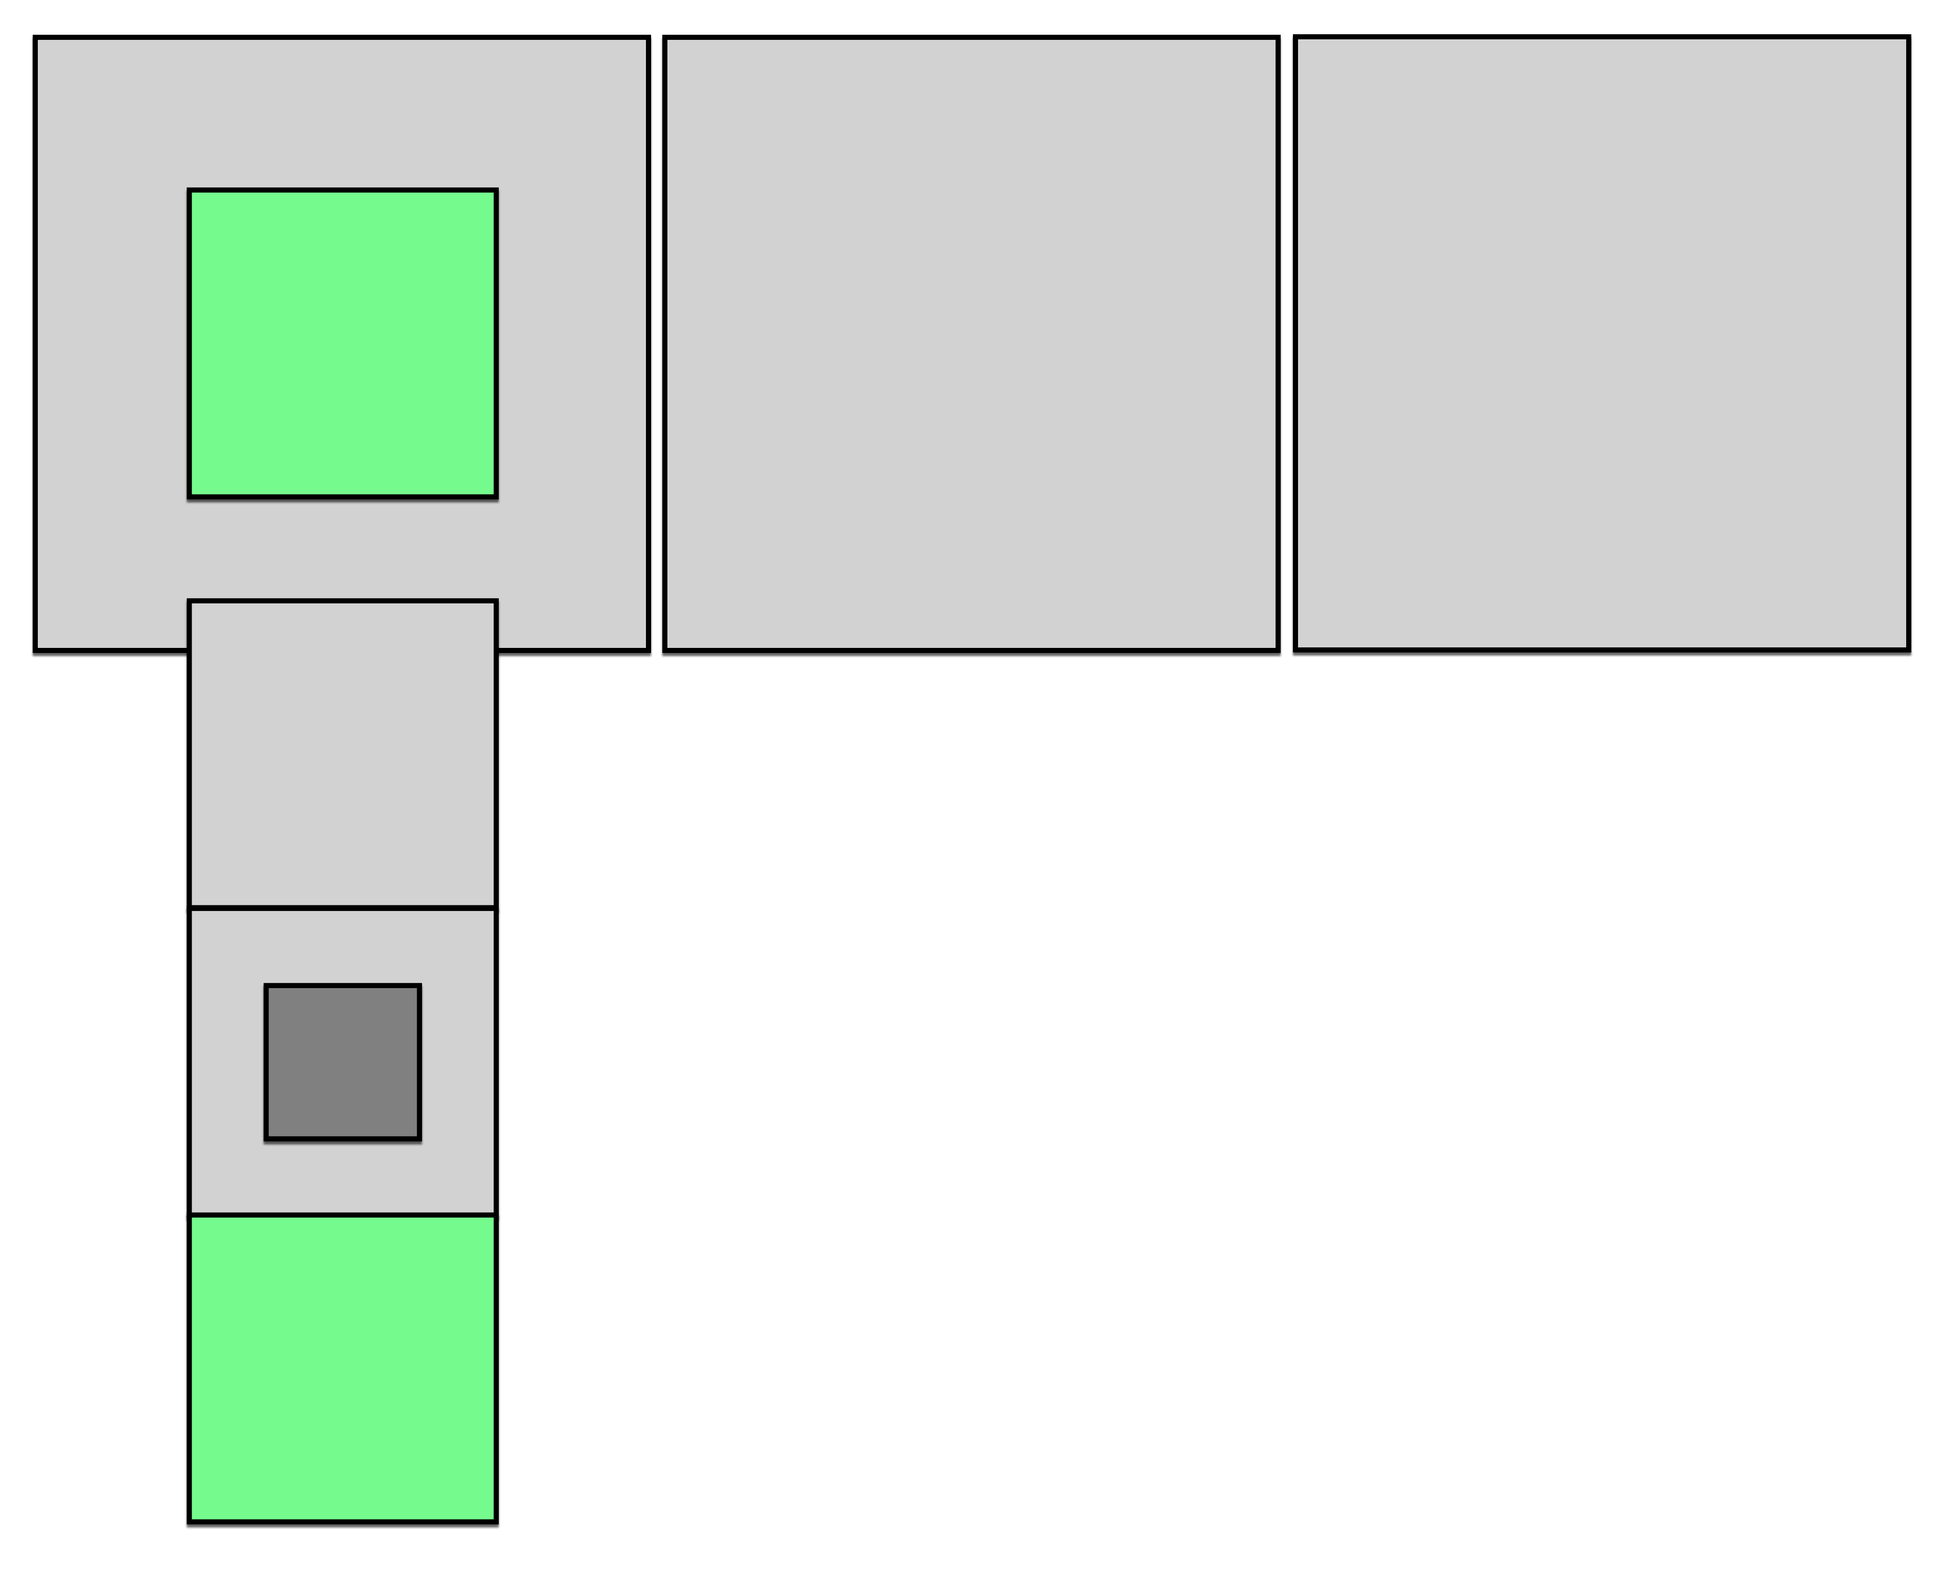
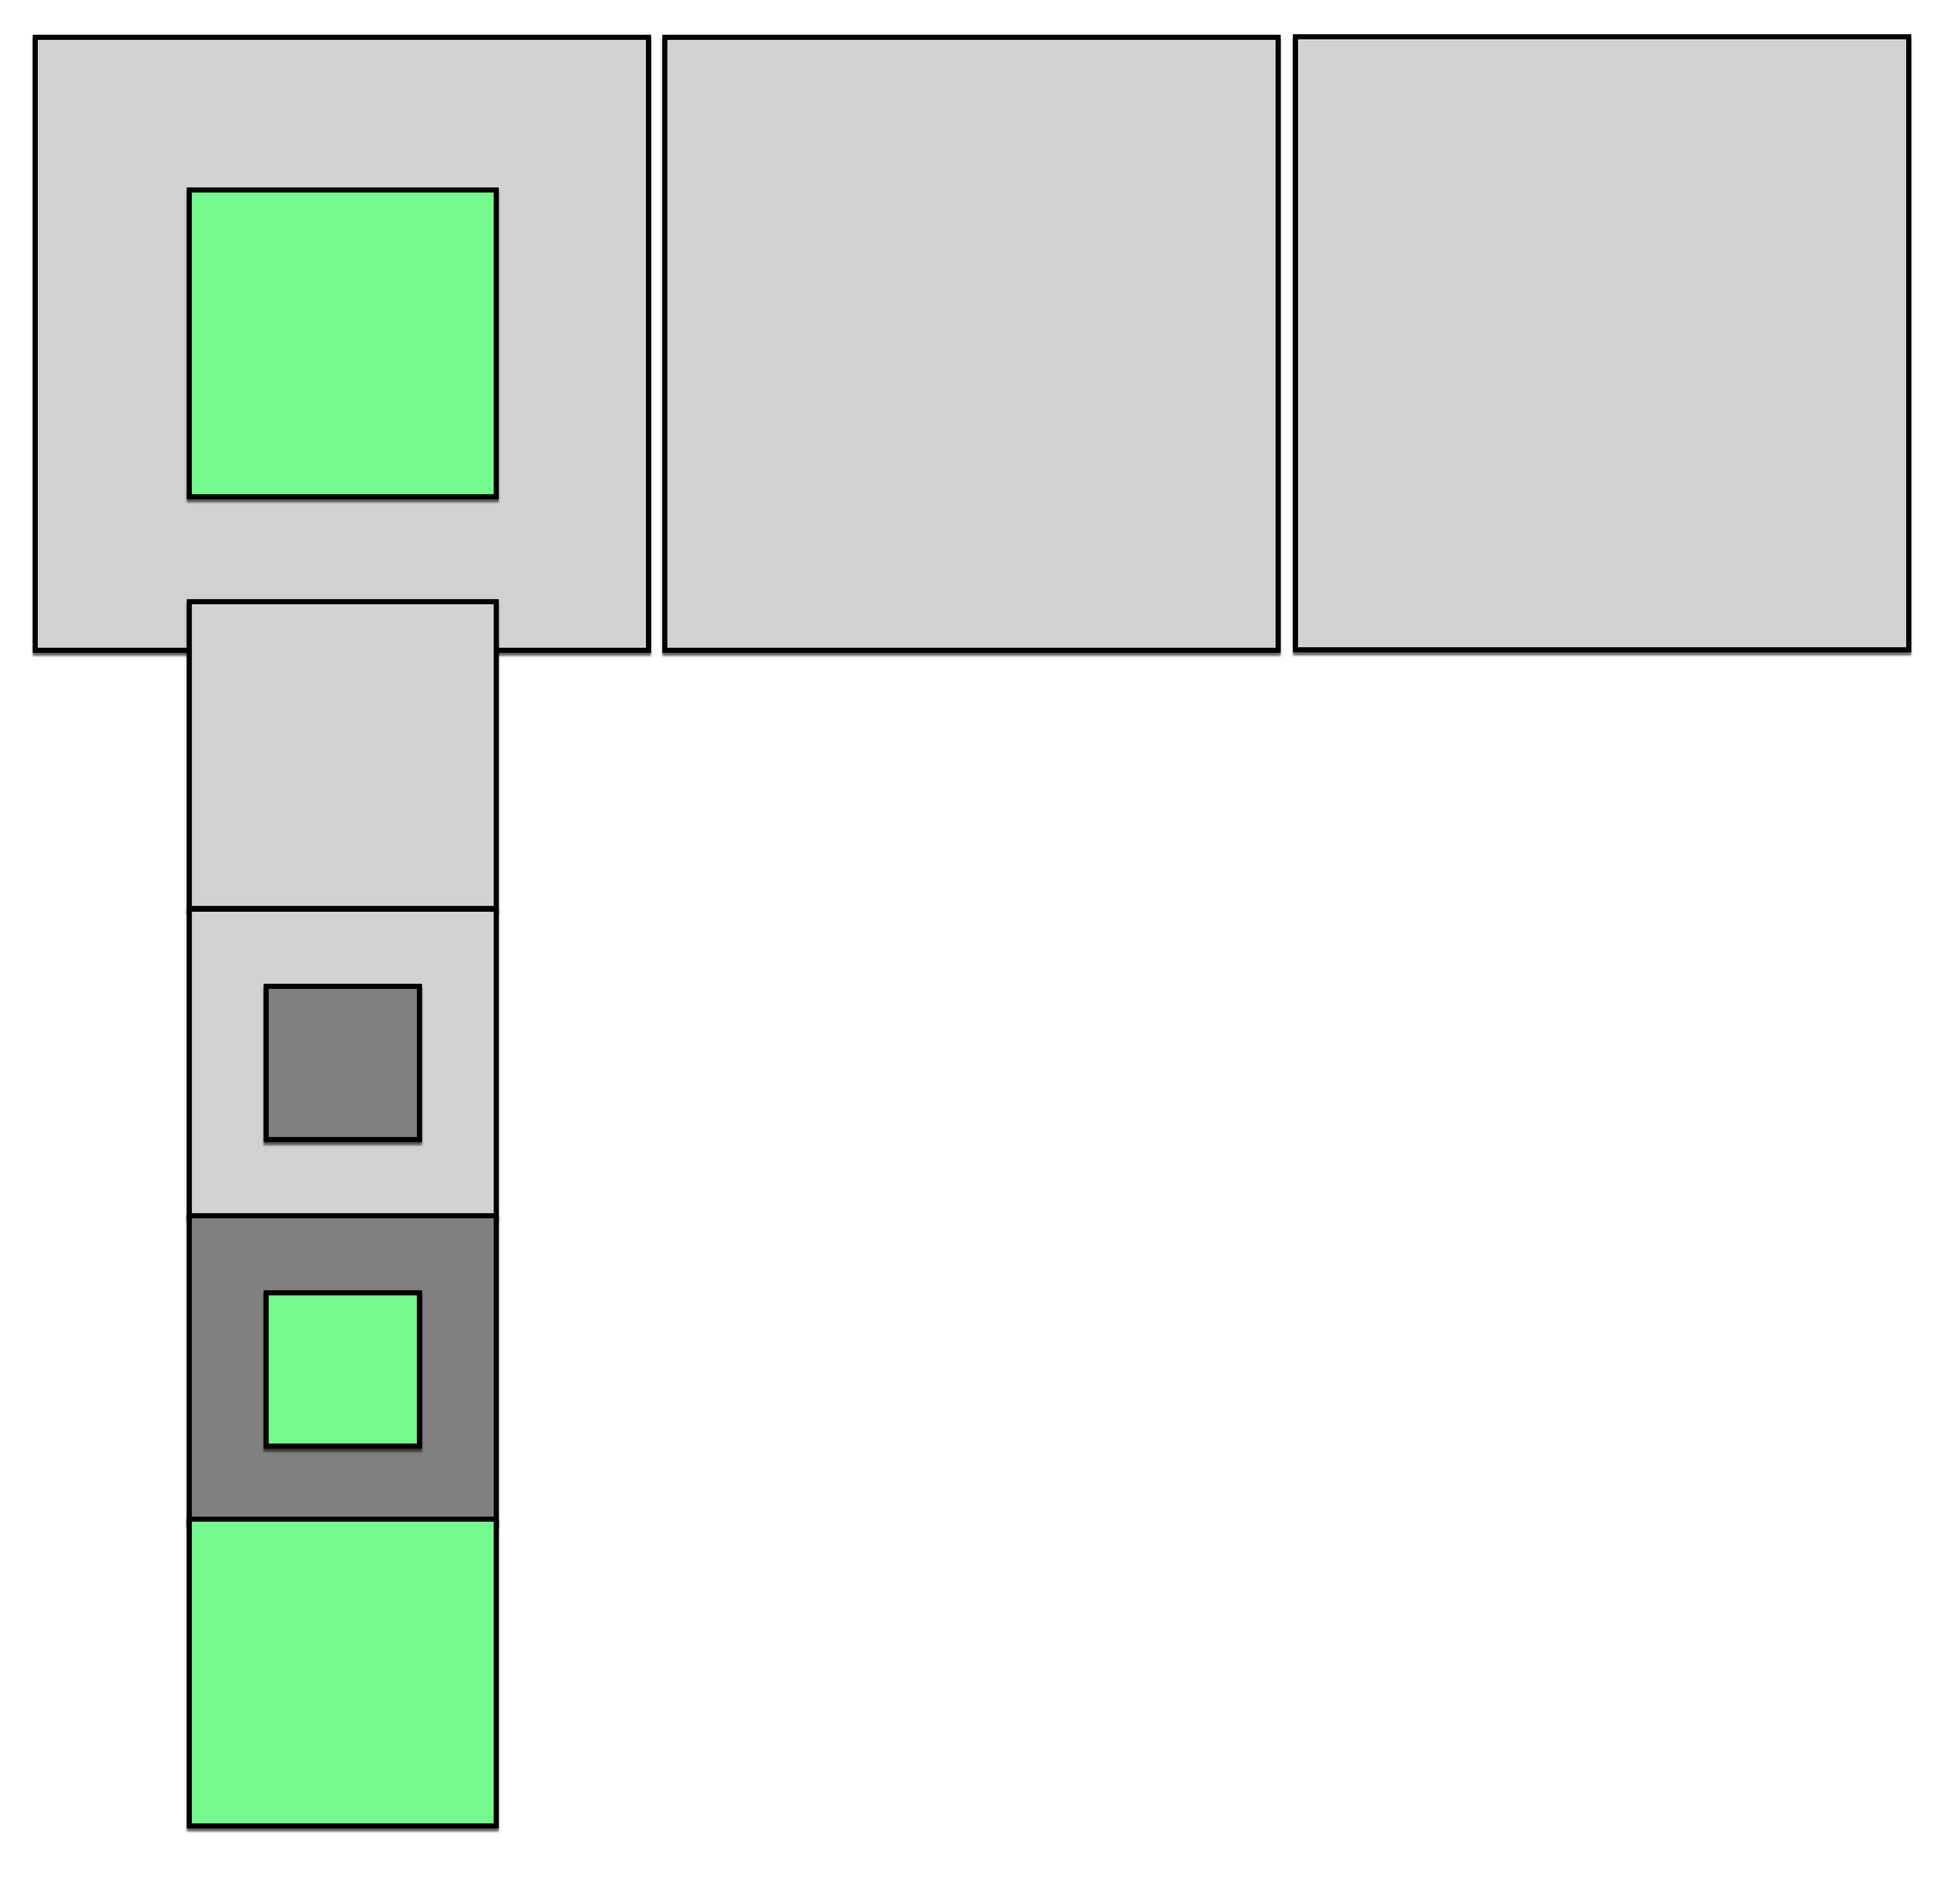
twins with affordances

diff --git a/_posts/2022-02-14-help-wanted-explained.md b/_posts/2022-02-14-help-wanted-explained.md
@@ -162,37 +162,57 @@ And this final position:
 
 ![Final Position Advanced Siblings](/assets/images/wordloid/bicolour-wordloid-final.png)
 
-## The Identical Twins Interface
+## Twins
+
+Another way to represent the siblings interfaces is by combining the representation for two or more discs of identical size into a single square. When the discs are on different pegs, the square displays more than one colour.
+
+We begin with the simplest representation, "identical twins."
+
+### identical twins
+
+The identical twins interface is a different view/controller paradigm for the "siblings" puzzle. In this example, there are three sizes of disc, and there are two discs of each size that are indistinguishable from each other. But instead of showing six squares, we show three squares, one for each size.
+
+We represent the two discs of each size as follows. If both discs are of the same colour (i.e. representing both discs on the same peg), we show a square of a solid colour. For example, in this sibling position, each pair of discs is the same colour:
+
+![Siblings Two Of Each](/assets/images/wordloid/twins/siblings-two-of-each.png)
+
+That is represented in the identical twins interface as three solid squares, each of which represents two discs:
+
+![Identical Twins two of each](/assets/images/wordloid/twins/twins-5.png)
+
+If both discs of the same size are different colours, we represent them as a coloured square superimposed on a differently coloured square. The three possibilities are:
+
+One disc is light grey, one is gray:
+
+![Light Grey Gray](/assets/images/wordloid/twins/light-grey-gray.png)
+
+One disc is light grey, one is spring green:
+
+![Light Grey Spring Green](/assets/images/wordloid/twins/light-grey-spring-green.png)
+
+One disc is gray, one is spring green:
+
+![Gray Spring Green](/assets/images/wordloid/twins/gray-spring-green.png)
+
+### affordances for twins
+
+In the siblings interface, each square represents one disc, and only those discs that can move have affordances. In the initial position, for example, only the top disc can move, and therefore the affordances in the siblings interface looks like this:
+
+![Siblings Initial Choice](/assets/images/wordloid/siblings-initial-choice.png)
+
+In the identical twins interface, there are the exact same two affordances, and they are represented like this:
 
 ![Twins 1](/assets/images/wordloid/twins/twins-1-affordances.png)
 
+When both discs of the same size have different colours, sometimes both can be changed. After moving the first disc to the third peg, the siblings interface and its affordances looks like this:
+
+![Siblings Second Choice](/assets/images/wordloid/twins/siblings-second-choice.png)
+
+In the identical twins interface, all four affordances are represented as changes to the first of the three squares:
+
 ![Twins 2](/assets/images/wordloid/twins/twins-2-affordances.png)
 
-![Twins 3](/assets/images/wordloid/twins/twins-3-affordances.png)
 
-![Twins 4](/assets/images/wordloid/twins/twins-4.png)
-
-![Twins 5](/assets/images/wordloid/twins/twins-5.png)
-
-![Twins 6](/assets/images/wordloid/twins/twins-6.png)
-
-![Twins 7](/assets/images/wordloid/twins/twins-7.png)
-
-![Twins 8](/assets/images/wordloid/twins/twins-8.png)
-
-![Twins 9](/assets/images/wordloid/twins/twins-9.png)
-
-![Twins 10](/assets/images/wordloid/twins/twins-10.png)
-
-![Twins 11](/assets/images/wordloid/twins/twins-11.png)
-
-![Twins 12](/assets/images/wordloid/twins/twins-12.png)
-
-![Twins 13](/assets/images/wordloid/twins/twins-13.png)
-
-![Twins 14](/assets/images/wordloid/twins/twins-14.png)
-
-![Twins 15](/assets/images/wordloid/twins/twins-15.png)
 
 ---
 
